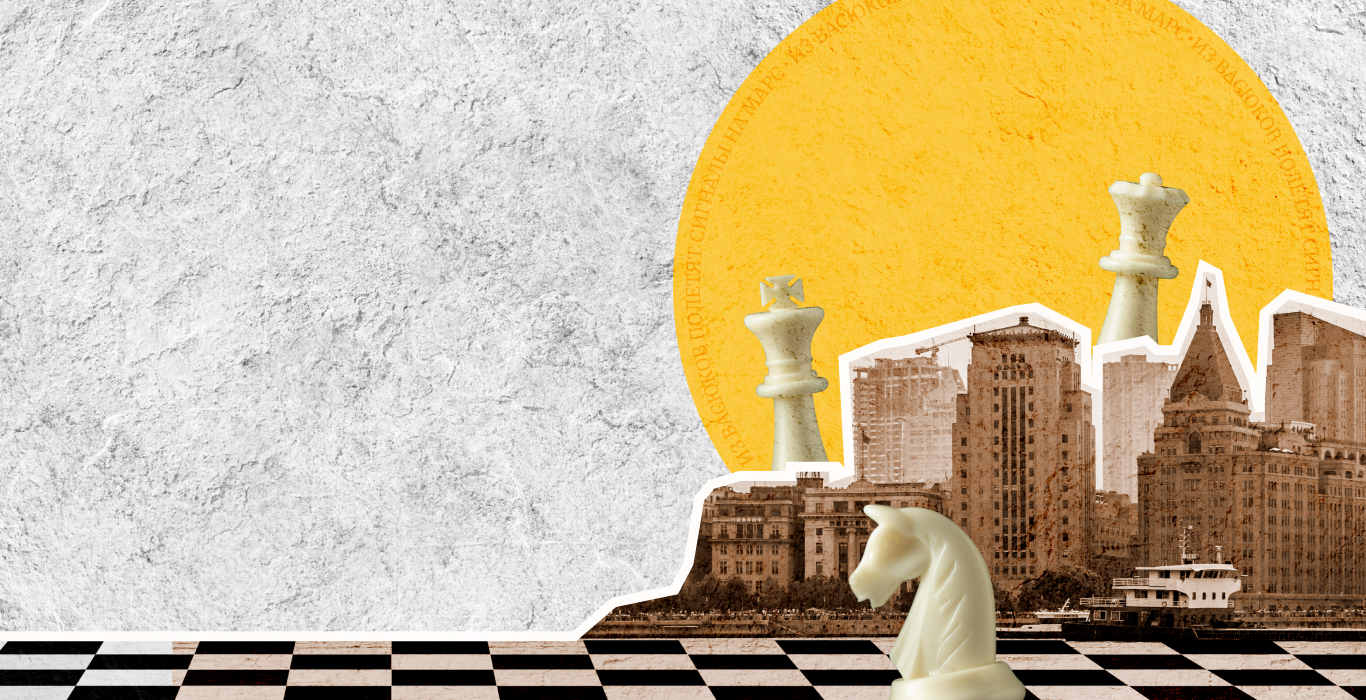
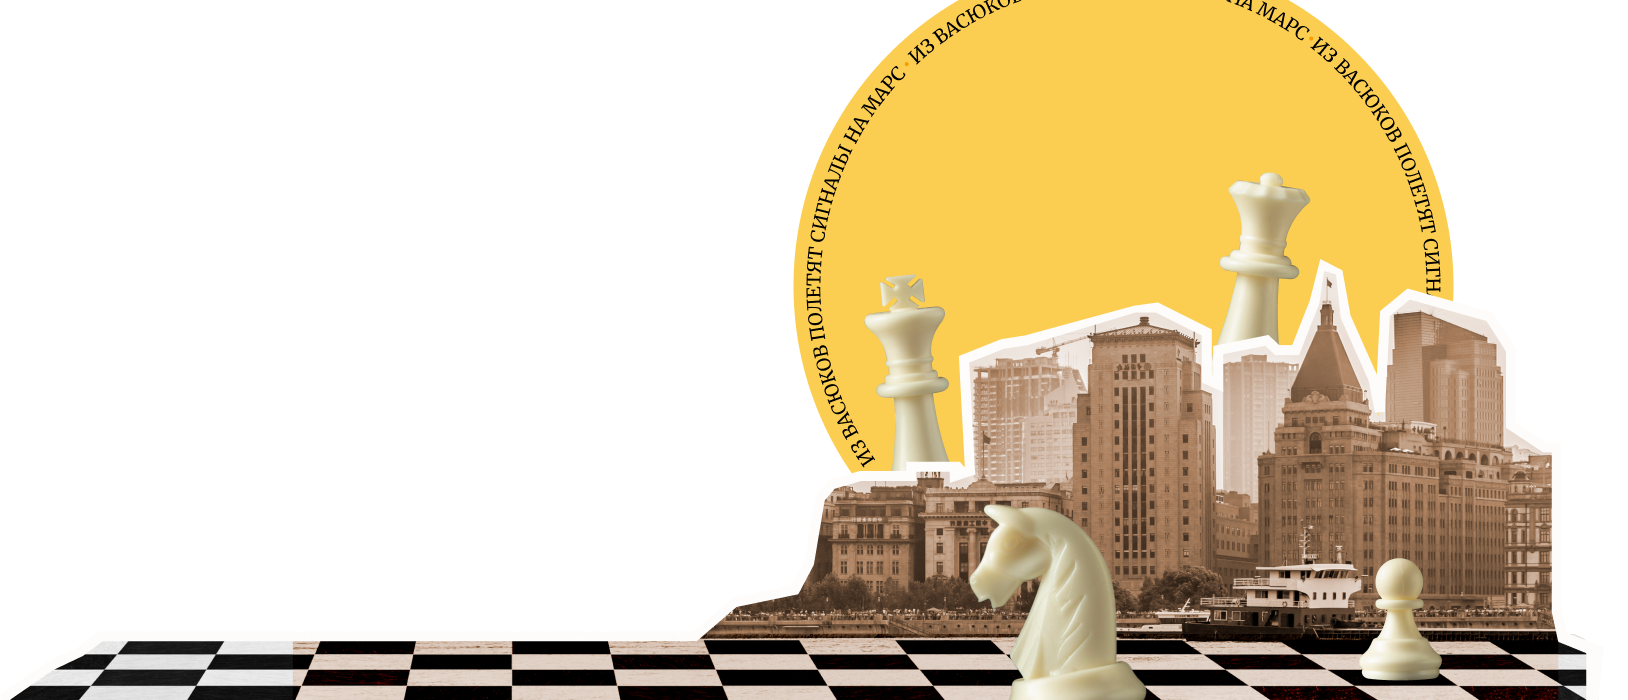
fix header background

diff --git a/index.css b/index.css
@@ -42,8 +42,9 @@ li {
 }
 
 .header {
-    /* background-image: ; */
-
+    background-image: url(./images/header.png);
+    background-repeat: no-repeat;
+    background-position: center;
 }
 
 .header__conteiner {
